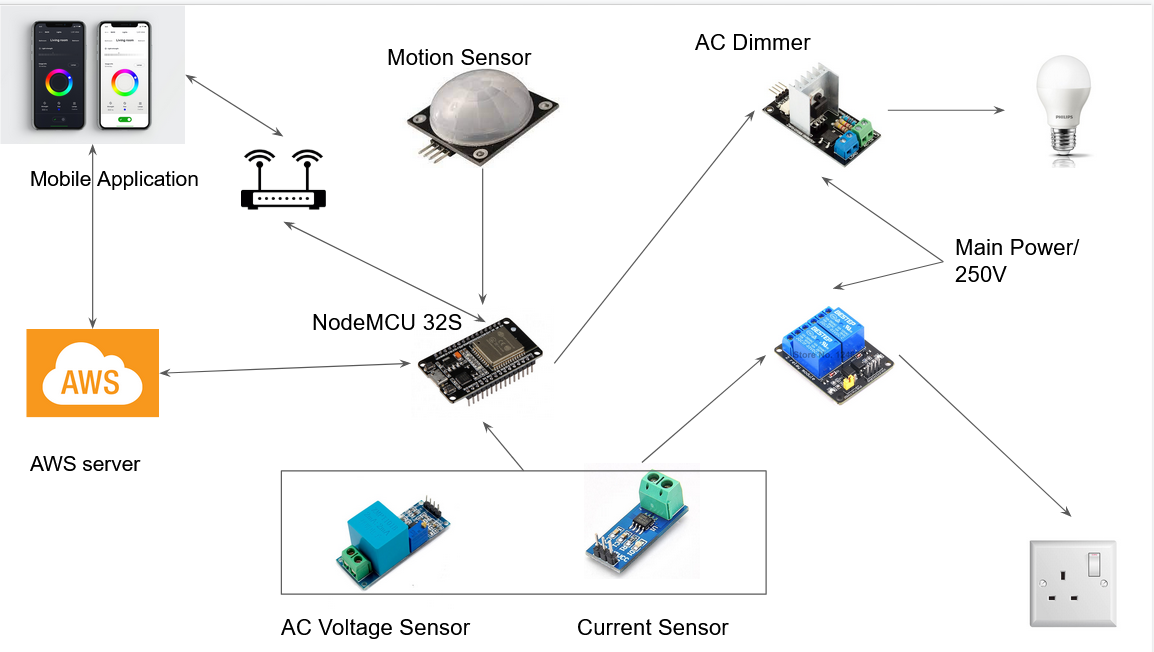
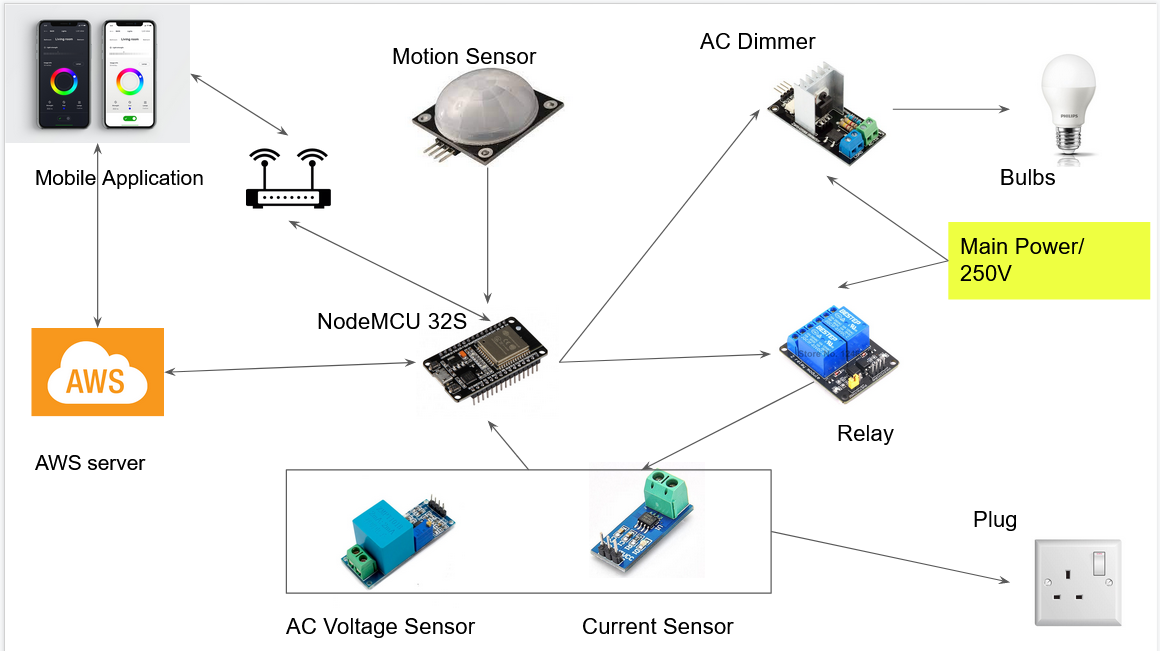
page update

diff --git a/docs/index.html b/docs/index.html
@@ -95,8 +95,8 @@
 				</p>				
             </div>
             <div class="col-lg-4 iphone-wrap"><br>
-              <img src="images/" alt="Image" class="phone-1" data-aos="fade-right">
-<!--              <img src="assets/img/phone_2.png" alt="Image" class="phone-2" data-aos="fade-right" data-aos-delay="200">-->
+              <!-- <img src="images/" alt="Image" class="phone-1" data-aos="fade-right"> -->
+             <img src="assets/img/phone_2.png" alt="Image" class="phone-2" data-aos="fade-right" data-aos-delay="200">
             </div>
           </div>
         </div>
@@ -228,8 +228,24 @@
           <div class="col-md-4 ms-auto order-2">
             <h2 class="mb-4" >Solution Architecture</h2>
             <p class="mb-4">
-              We going to use the NodeMCu32s as the central device.
+              Our solution Architecture contains two types of devices, they are 
+              <b>Smart-Bulbs</b> & the <b>Smart-Switchs</b>. They both devices, sensors like motion sensor,
+              AC current sensor, AC voltage sensor and the Rellay are directly connected with the Central Unit.
+              Our mobile application and the central unit connectedto the cloud via internet. So they can communicate 
+              with them-self. The central unit will use the <b>MQTT</b> protocol to communicate with the server.
+              <br><br>
+              The energy consumption monitoring, this is a feature embeded with all the switches to calculate the
+              energy consumption and update it to the cloud. This is can be implemented using Two sensor AC Current sensor
+              and AC voltage sensor. 
 
+              <br><br>
+              Motion Sensing, Motion sensing is another feature built-in with the bulbs, The motion sensors are connected
+              to the central unit. When a motion detected or the central unit wil turn on the bulb and if no motion/human detected
+              the CU will turn off the bulb.
+
+              <br><br>
+              Mobile applications communicate with the central unit through the cloud or diretly using wifi router.
+              The User settings, user data, and the reports will be stored in the cloud/server. 
             </p>
             
           </div>
@@ -245,11 +261,11 @@
       <div class="container" >
         <div class="row align-items-center">
           <div class="col-md-4 me-auto">
-            <h2 class="mb-4">Hardware Diagram</h2>
+            <h2 class="mb-4">Hardware Model</h2>
             <p class="mb-4">This our Hardware diagram of our project.
               These are the hardware componets we planned to use:
               <ul>
-                <li><a href="https://docs.ai-thinker.com/_media/esp32/docs/nodemcu-32s_product_specification.pdf">NodeMCU32</a></li>
+                <li><a href="https://randomnerdtutorials.com/esp32-pinout-reference-gpios/">NodeMCU32</a></li>
                 <li><a href="https://cdn-learn.adafruit.com/downloads/pdf/pir-passive-infrared-proximity-motion-sensor.pdf">PIR sensor</a></li>
                 <li><a href="https://datasheet.octopart.com/MAX4822ETP%2B-Maxim-datasheet-8430178.pdf">Relay switch</a></li>
                 <li><a href="https://www.robotics.org.za/6970622932567">AC Dimmer</a></li>
@@ -260,7 +276,7 @@
             </p>
           </div>
           <div class="col-md-6" data-aos="fade-left">
-            <img src="assets/img/undraw_svg_2.svg" alt="Image" class="img-fluid">
+            <img src="images/hardwarediagram.PNG" alt="Image" class="img-fluid">
           </div>
         </div>
       </div>
@@ -271,7 +287,7 @@
       <div class="container" >
         <div class="row align-items-center">
           <div class="col-md-4 me-auto">
-            <h2 class="mb-4">Software Solution</h2>
+            <h2 class="mb-4">Software Model</h2>
             <p class="mb-4">
               <Ul>
                 <li><a href="">Flutter</a></li>
@@ -285,7 +301,7 @@
             
           </div>
           <div class="col-md-6" data-aos="fade-left">
-            <img src="assets/img/undraw_svg_2.svg" alt="Image" class="img-fluid">
+            <img src="images/software.PNG" alt="Image" class="img-fluid">
           </div>
         </div>
       </div>
@@ -339,8 +355,9 @@
                       <img src="images/team/WhatsApp Image 2021-07-31 at 7.35.02 PM.jpeg" alt="Image" height="300" width="225" class="pic" >
                       <br><br>
                       <h5><a href=""><img src="images/logos/GitHub-Mark.png" alt="github"  height="45" width="45"></a>
-                        <a href=""><img src="images/logos/linkedin-logo-png-1853.png" alt="Linkdin"  height="35" width="35"></a>
-                        <b>Arshad MRM</b>   
+                        <a href="www.linkedin.com/in/muhammed-arshad-127537159">
+                          <img src="images/logos/linkedin-logo-png-1853.png" alt="Linkdin"  height="35" width="35"></a>
+                        <b>Arshad MRM  &nbsp; E/17/015</b>   
                         <a href=""><img src="images/logos/icons8-website-96.png" alt="web"  height="35" width="35"></a>
                       </h5>
                 </div>
@@ -352,7 +369,7 @@
                      <h5>
                       <a href=""><img src="images/logos/GitHub-Mark.png" alt="github" height="45" width="45"></a>
                       <a href=""><img src="images/logos/linkedin-logo-png-1853.png" alt="Linkdin"  height="35" width="35"></a>
-                       <b>Varnaraj N</b>      
+                       <b>Varnaraj N  &nbsp; E/17/358</b>      
                        <a href=""><img src="images/logos/icons8-website-96.png" alt="web"  height="35" width="35"></a>                 
                       </h5>
                       </div>
@@ -364,7 +381,7 @@
                         <h5>
                           <a href=""><img src="images/logos/GitHub-Mark.png" alt="github" height="45" width="45"></a>
                         <a href=""><img src="images/logos/linkedin-logo-png-1853.png" alt="Linkdin"  height="35" width="35"></a>
-                          <b>Nishankar S</b>   
+                          <b>Nishankar S  &nbsp; E/17/230</b>   
                           <a href=""><img src="images/logos/icons8-website-96.png" alt="web"  height="35" width="35"></a>                   
                         </h5>
                         </div>              
@@ -387,7 +404,8 @@
                       <img src="images/team/isuruNawinne.png" alt="Image" height="300" width="255"  class="mentimg">
                       <br><br>
                       <h5>
-                        <a href=""><img src="images/logos/linkedin-logo-png-1853.png" alt="Linkdin"  height="35" width="35"></a>
+                        <a href="https://www.linkedin.com/in/isuru-nawinne-73302833/?originalSubdomain=lk">
+                          <img src="images/logos/linkedin-logo-png-1853.png" alt="Linkdin"  height="35" width="35"></a>
                         <b>Dr. Isuru Nawinne</b>   
                         <a href="http://www.ce.pdn.ac.lk/academic-staff/isuru-nawinne/">
                           <img src="images/logos/icons8-website-96.png" alt="web"  height="35" width="35"></a>
@@ -396,10 +414,11 @@
 
                 <!-- Dr. Mahanama Wickramasinghe -->
                 <div style="text-align: center;">       
-                      <img src="images/team/mahanama.jpg" alt="Image"  height="300" width="255" class="mentimg">
+                      <img src="images/team/mahanama.jpg" alt="Image"  height="300" width="255" ="mentimg">
                       <br><br>
                      <h5>
-                      <a href=""><img src="images/logos/linkedin-logo-png-1853.png" alt="Linkdin"  height="35" width="35" ></a>
+                      <a href="https://www.linkedin.com/in/mahanama/">
+                        <img src="images/logos/linkedin-logo-png-1853.png" alt="Linkdin"  height="35" width="35" ></a>
                        <b>Dr. Mahanama Wickramasinghe</b>      
                        <a href="http://www.ce.pdn.ac.lk/2021/05/02/dr-mahanama-wickramasinghe/">
                          <img src="images/logos/icons8-website-96.png" alt="web"  height="35" width="35"></a>                 
